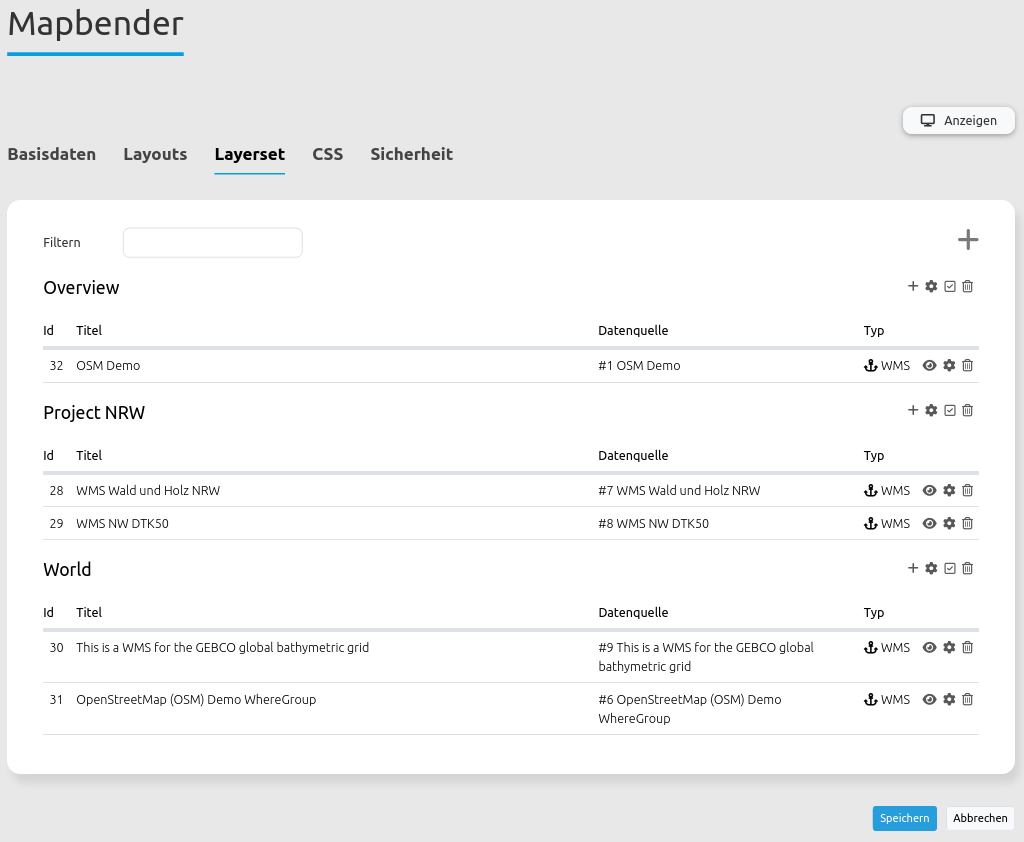
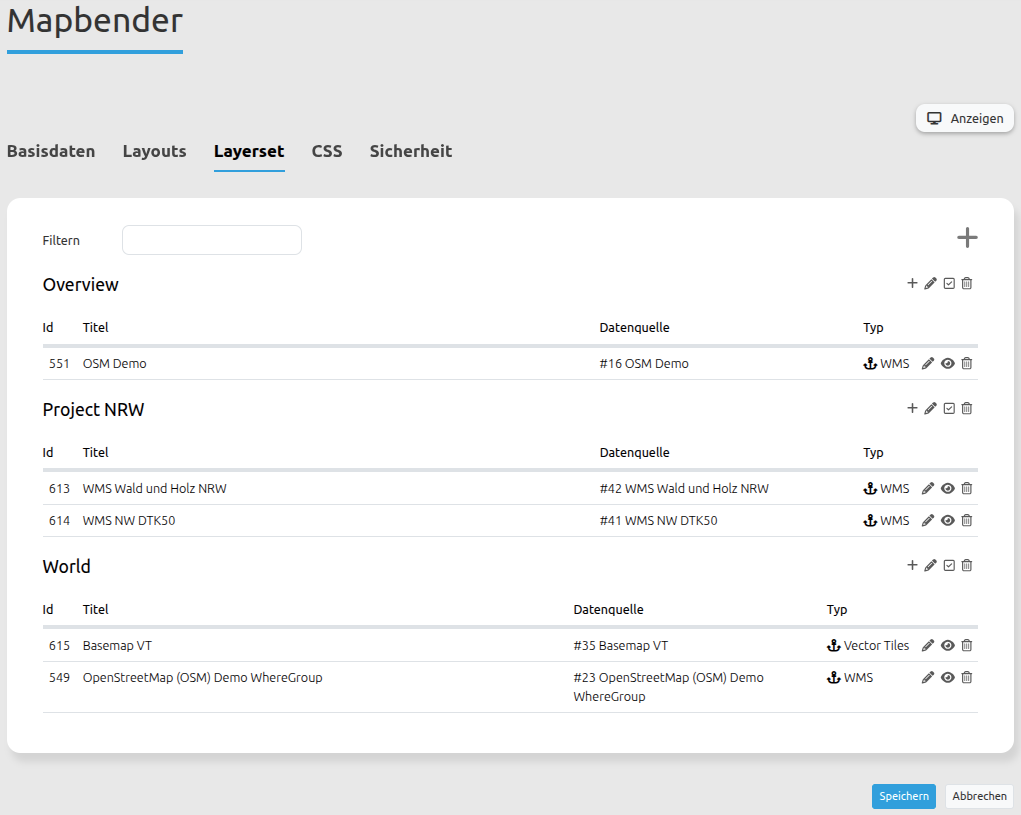
layertree: GEBCO removed, basemap added, sceenshots changed accordingly

diff --git a/de/elements/basic/layertree.rst b/de/elements/basic/layertree.rst
@@ -189,11 +189,11 @@ In dem folgenden Beispiel sind zwei **Layersets** mit jeweils zwei Instanzen def
 
 * Layerset World: 
     * Instanz `OpenStreetMap (OSM) <https://osm-demo.wheregroup.com/service?&REQUEST=GetCapabilities&SERVICE=WMS&VERSION=1.3.0>`_
-    * Instanz `GEBCO <https://www.gebco.net/data_and_products/gebco_web_services/web_map_service/mapserv?&REQUEST=GetCapabilities&SERVICE=WMS&VERSION=1.3.0>`_ 
+    * Instanz `Basemap VT <https://sgx.geodatenzentrum.de/gdz_basemapde_vektor/styles/bm_web_col.json>`_ 
 
 Für die Einrichtung der Layersets wurden die vier oben genannten Dienste als Instanzen hinzugefügt (detaillierte Information siehe oben oder in der Doku der :ref:`layerset_de` und :ref:`sources_de`).
 
-Für dieses Beispiel wurden die oben genannten Schritte durchgeführt, um das Layerset "World" mit der Instanz "OpenStreetMap (OSM)" hinzuzufügen. Nun fügen wir in dieses Layerset auch die Instanz "GEBCO" hinzu. 
+Für dieses Beispiel wurden die oben genannten Schritte durchgeführt, um das Layerset "World" mit der Instanz "OpenStreetMap (OSM)" hinzuzufügen. Nun fügen wir in dieses Layerset auch die Instanz "Basemap VT" hinzu. 
 Um die thematische Gruppierung nutzen zu können, erstellen wir zusätzlich ein neues Layerset mit dem Namen "Project NRW" und laden in dieses die beiden oben genannten Instanzen "NW DTK50" und "Wald und Holz NRW" ein.
 
 .. figure:: ../../../figures/layertree/layertree_configuration_layerset_komplex.png

diff --git a/en/elements/basic/layertree.rst b/en/elements/basic/layertree.rst
@@ -188,11 +188,11 @@ In the example, we define two layersets with two instances each:
 
 * Layerset **World**: 
     * Instance `OpenStreetMap (OSM) <http://osm-demo.wheregroup.com/service?&REQUEST=GetCapabilities&SERVICE=WMS&VERSION=1.3.0>`_
-    * Instance `GEBCO <https://www.gebco.net/data_and_products/gebco_web_services/web_map_service/mapserv?&REQUEST=GetCapabilities&SERVICE=WMS&VERSION=1.3.0>`_ 
+    * Instance `Basemap VT <https://sgx.geodatenzentrum.de/gdz_basemapde_vektor/styles/bm_web_col.json>`_ 
 
 For the configuration of the layersets, the four services mentioned above were added as instances (For detailed information, see above or in the :ref:`layerset` and :ref:`sources` documentation).
 
-For this example, the above mentioned steps were performed to add the Layerset "World" with the instance "OpenStreetMap (OSM)". Now we add the instance "GEBCO" in this Layerset. 
+For this example, the above mentioned steps were performed to add the Layerset "World" with the instance "OpenStreetMap (OSM)". Now we add the instance "Basemap VT" in this Layerset. 
 To use the thematic grouping, we create a new Layerset named "Project NRW" and load the two instances "NW DTK50" and "Wald und Holz NRW(Forest NRW)" into it.  
 
 .. figure:: ../../../figures/layertree/layertree_configuration_layerset_komplex_en.png
